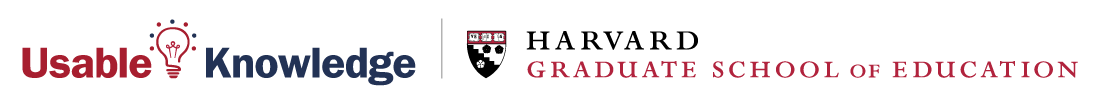
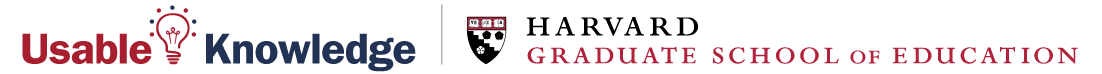
responsive header

diff --git a/_layouts/default.html b/_layouts/default.html
@@ -24,19 +24,30 @@
 
     <header class="sticky-top">
       <div class="navbar yif-navbar">
-        <a href="/"><img class="page-logo" src="/images/logo-black-wide.png"/></a>
-        {% if layout.show_teacher_student_toggle %}
-          <div class="top-level-tabs">
-            <div class="{% if page.audience == 'students' %}active-audience{% endif %}"><a href="/">Youth</a></div>
-            <div class="{% if page.audience == 'teachers' %}active-audience{% endif %}"><a href="/teachers.html">Adults</a></div>
+        <div class="logo-pack">
+          <a href="/"><img class="page-logo" src="/images/logo-black-wide.png"/></a>
+          <div class="header-tagline d-none d-md-block">
+            Advice on Leading Change from Experienced Youth Activists and Allies
           </div>
-        {% endif %}
+        </div>
+        <div class="sponsor-pack">
+          <img class="about-logo" alt="MIT Logo" src="/images/mit-teaching-systems-lab-logo.png"/>
+          <img class="about-logo" alt="Harvard Logo" src="/images/UK_HGSE_oneline.png"/>
+        </div>
       </div>
     </header>
 
+
     <div class="sub-header">
-      <span class="sub-title">Advice on Leading Change from Experienced Youth Activists and Allies</span>
-        <span class="sub-header-about"><ul><li class="sub-header-item"><img class="about-logo" alt="MIT Logo" src="/images/mit-teaching-systems-lab-logo.png"/></li><li class="sub-header-item"><img class="about-logo" alt="Harvard Logo" src="/images/UK_HGSE_oneline.png"/></li></ul></span>
+      <div class="subheader-tagline d-block d-md-none">
+        Advice on Leading Change from Experienced Youth Activists and Allies
+      </div>
+      {% if layout.show_teacher_student_toggle %}
+        <div class="top-level-tabs">
+          <div class="{% if page.audience == 'students' %}active-audience{% endif %}"><a href="/">Youth</a></div>
+          <div class="{% if page.audience == 'teachers' %}active-audience{% endif %}"><a href="/teachers.html">Adults</a></div>
+        </div>
+      {% endif %}
     </div>
 
 

diff --git a/css/yif.css b/css/yif.css
@@ -12,32 +12,36 @@ img.page-logo {
     padding: 0 1rem;
 }
 
-.sub-header {
-	background-color: #eeeeee;
-	color: #333333;
-	font-size: 12px;
-	padding: 10px;
-	text-align: left;
+.footer-link {
+    font-family: "Avenir Next", sans-serif;
+    font-size: 24px;
+    font-weight: 300;
+    margin: 0 10px;
 }
 
-.sub-title {
-	margin-right: 20px;
+.logo-pack {
+    align-items: center;
+    display: flex;
 }
 
-.sub-header-item {
-	display: inline;
-	padding-right:10px;
+.sponsor-pack {
+    align-items: flex-end;
+    display: flex;
+    flex-direction: column;
+    height: 70px;
+    justify-content: space-evenly;
+    max-width: 50%
 }
 
-.sub-header-about ul {
-	display: inline-block;
-	list-style-type: none; 
-	margin-bottom: 0;
-	padding: 0;
+.header-tagline {
+    margin-left: 20px;
+    max-width: 300px;
+    font-weight: 500;
 }
 
-.sub-header-item img {
-	max-width: 155px;
+.subheader-tagline {
+    font-weight: 500;
+    padding: 1rem 1rem 0 1rem;
 }
 
 .footer-link {
@@ -45,6 +49,11 @@ img.page-logo {
     font-size: 18px;
     font-weight: 300;
     margin: 0 10px;
+}
+
+.about-logo {
+    max-height: 20px;
+    max-width: 100%;
 }
 
 .top-level-tabs {
